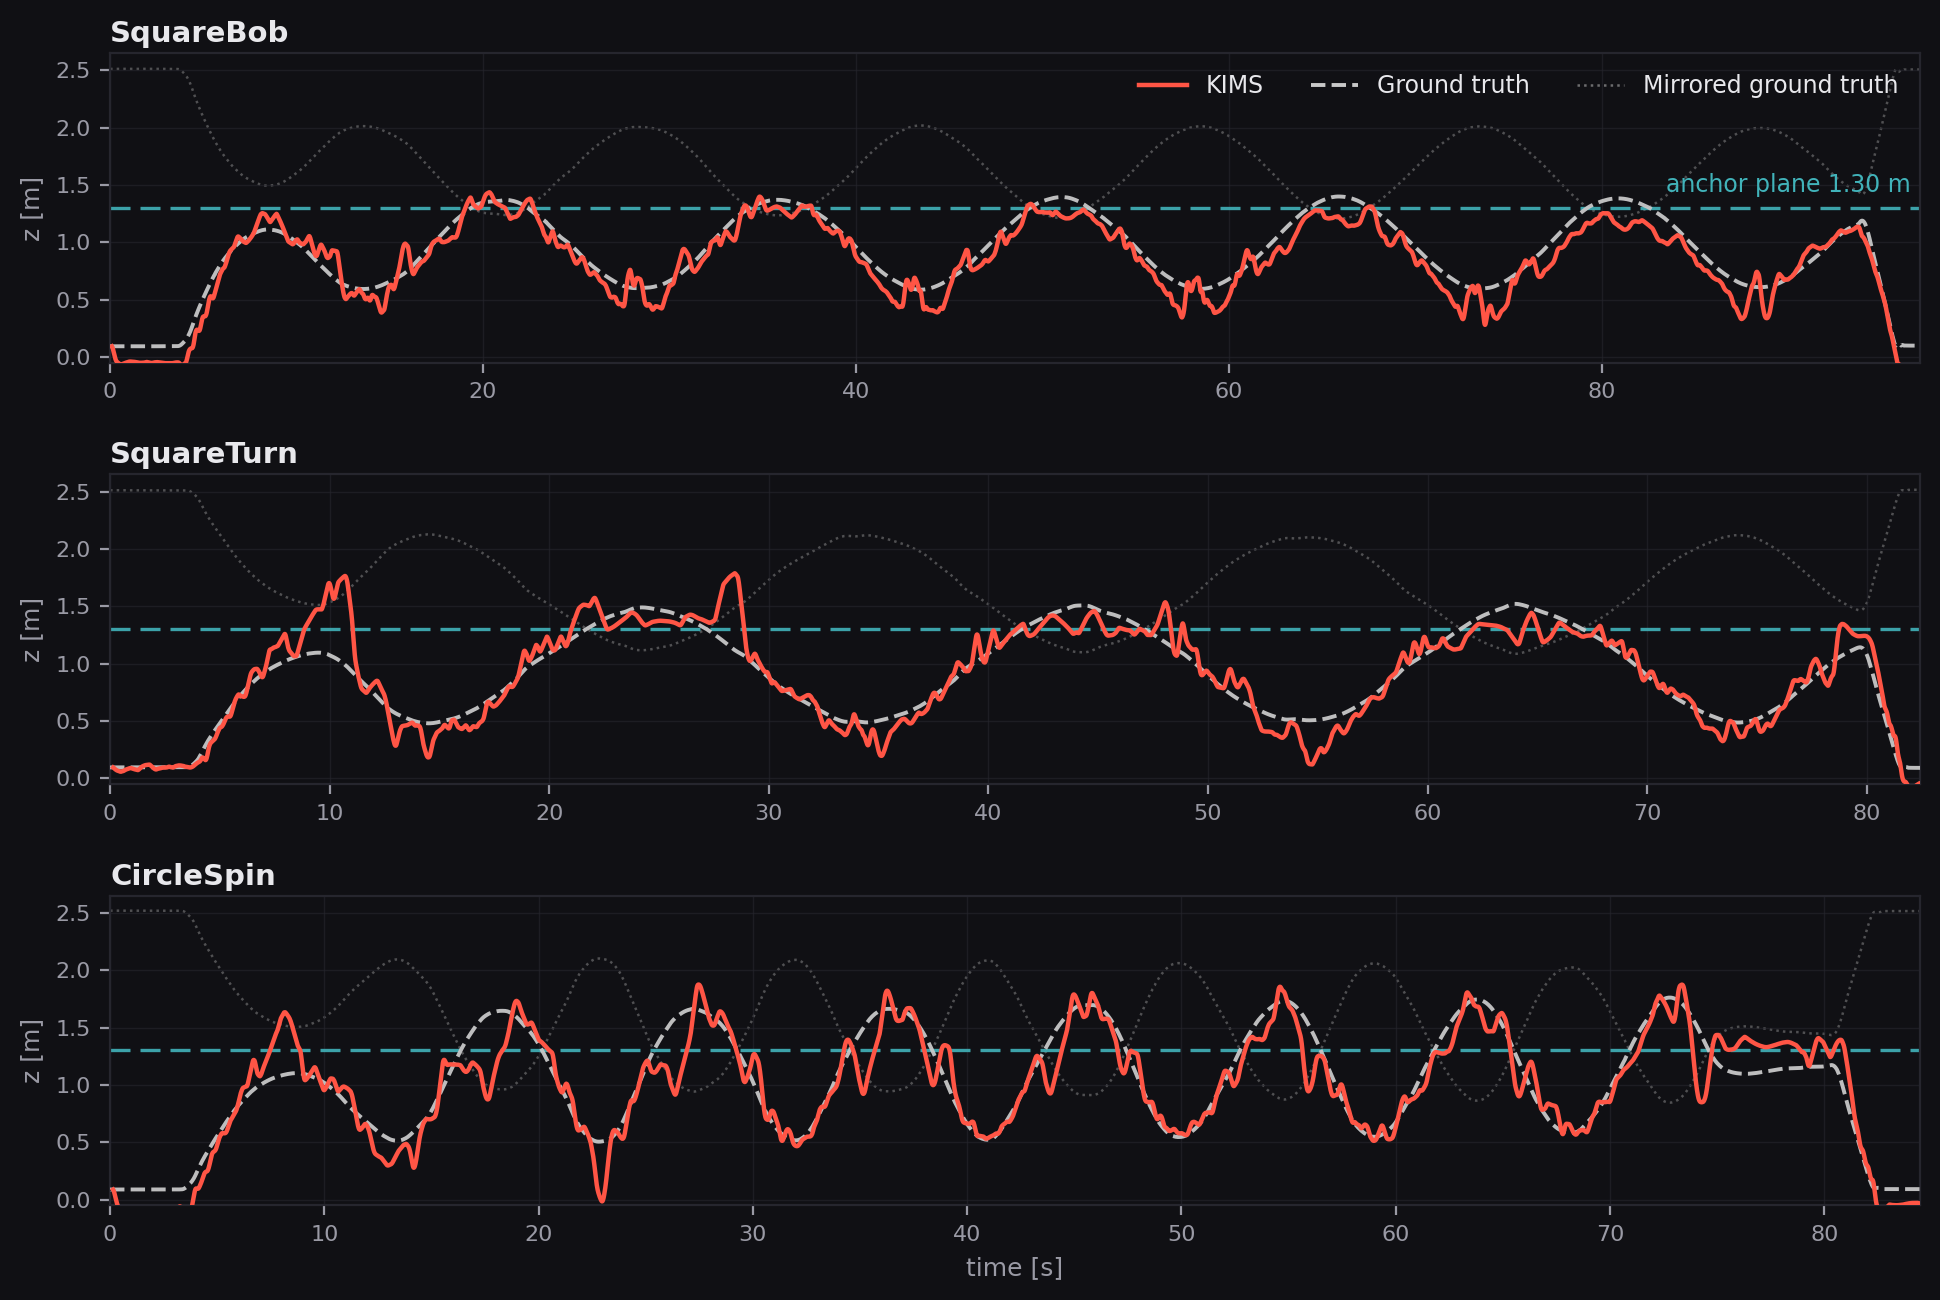
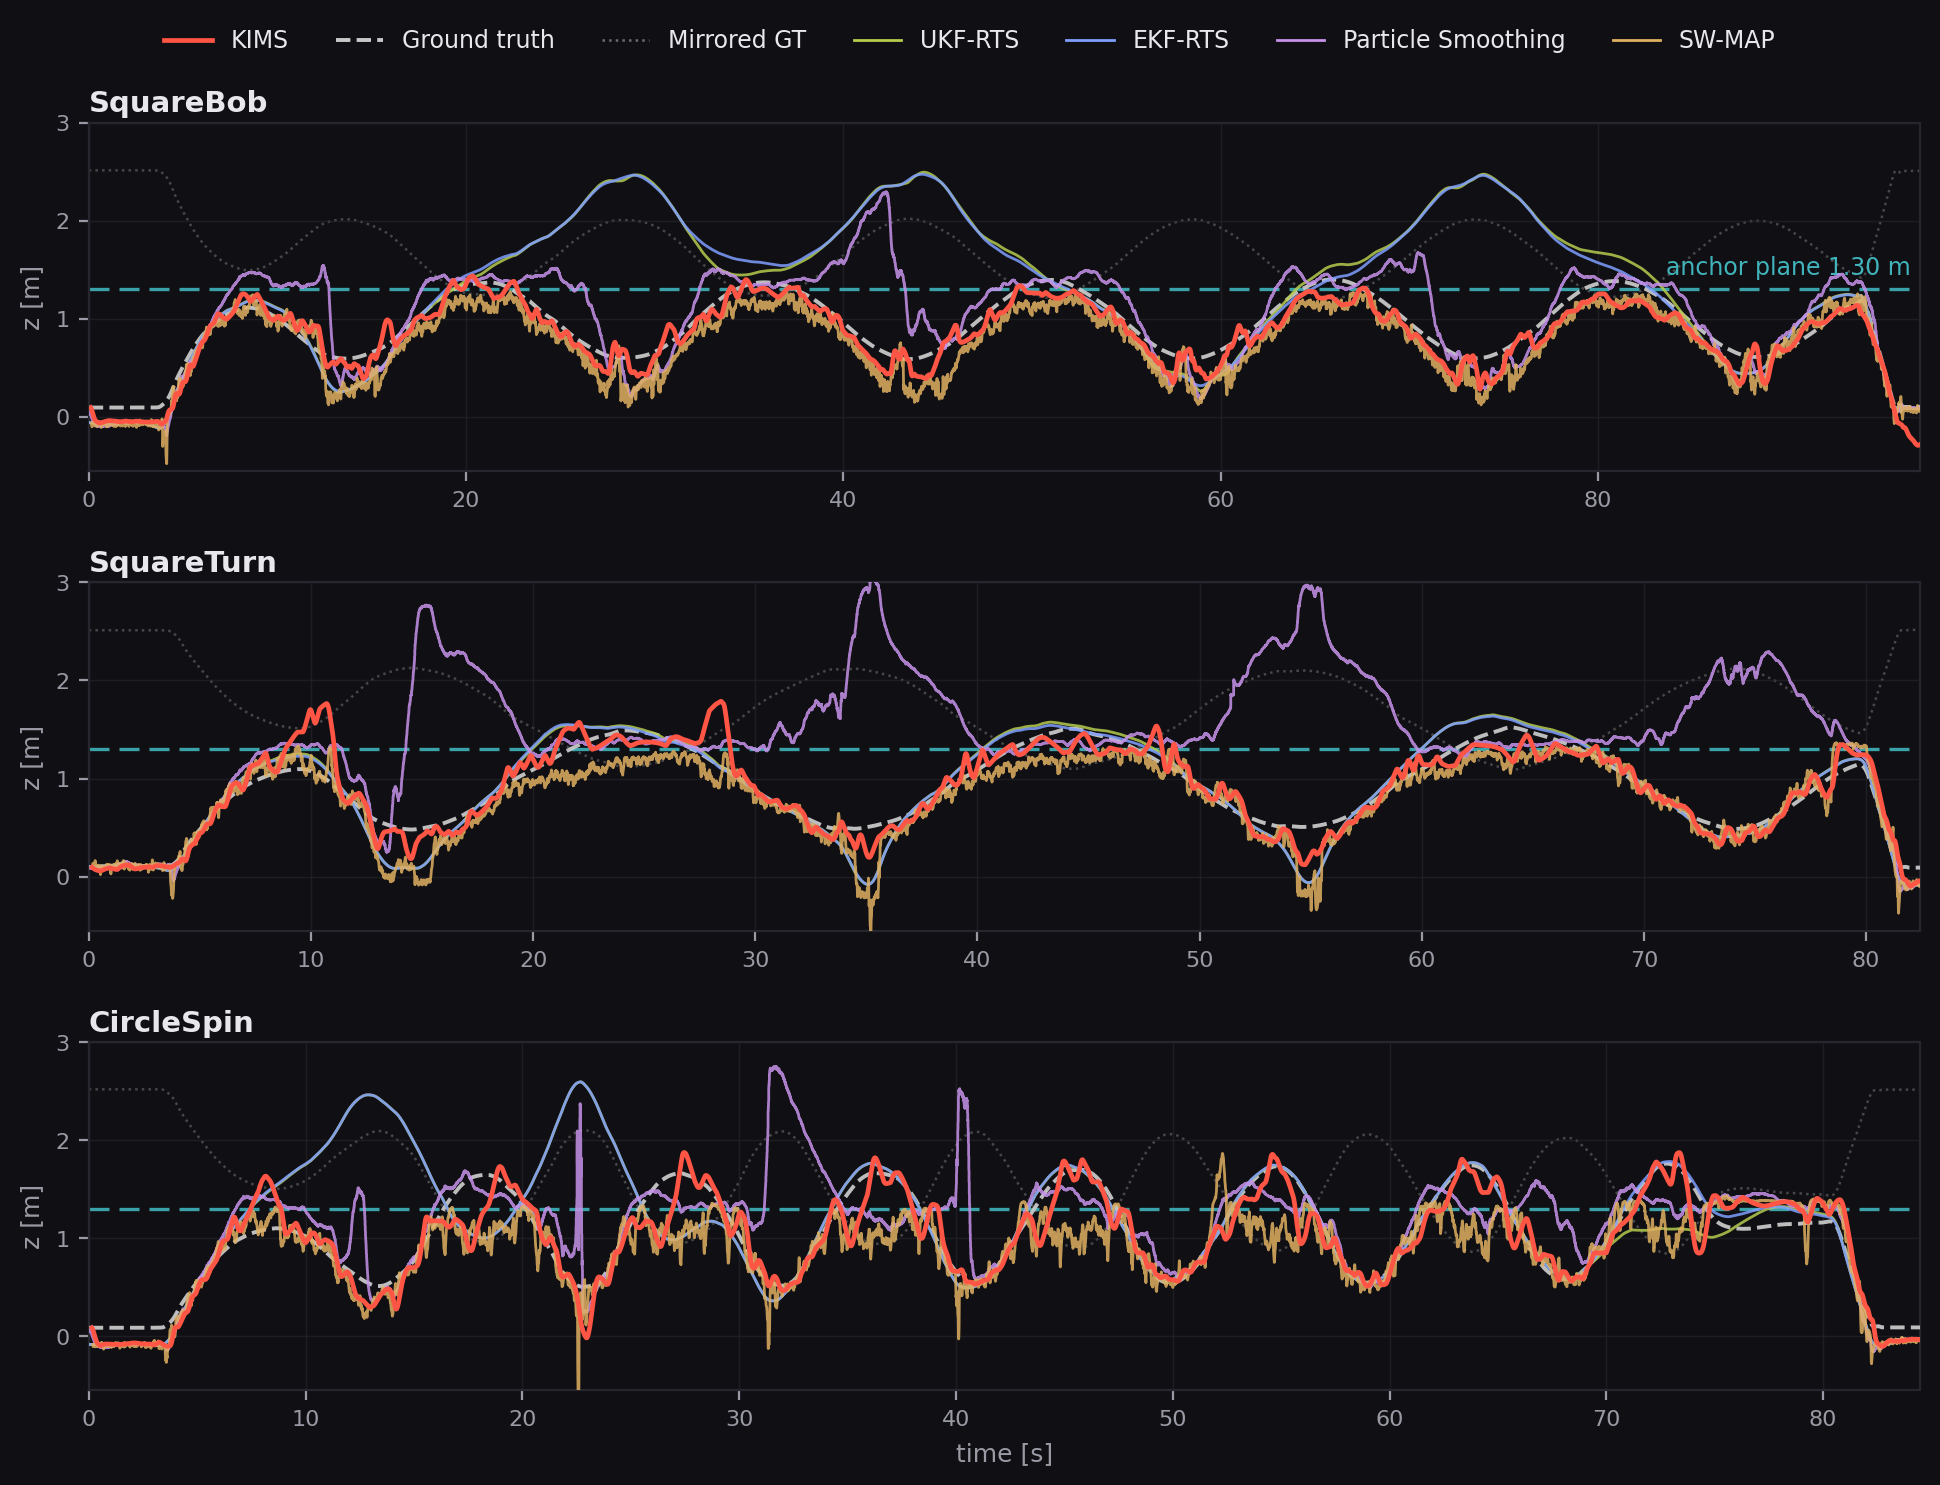
docs: altitude figure now compares all methods against the mirrored branch

diff --git a/docs/index.html b/docs/index.html
@@ -237,11 +237,13 @@
      the onboard IMU runs at ~50 Hz (20 ms), and Qualisys ground truth at 70 Hz. The UWB epoch
      rate being higher than the IMU rate is intentional in this campaign — IMU samples are
      interpolated to UWB timestamps by the estimator.</p>
-  <img src="assets/fig_z_crossings.png" alt="Altitude versus time on the three IULUI sequences"
+  <img src="assets/fig_z_crossings.png"
+       alt="Altitude versus time for all methods on the three IULUI sequences"
        style="width:100%;border-radius:12px;margin-top:14px">
   <p class="cap">Altitude over each flight. Every sequence repeatedly crosses the anchor plane
-     (teal), where the true and mirrored solutions meet — KIMS (red) stays on the true branch
-     throughout, never switching onto the mirrored ground truth (faint dotted).</p>
+     (teal), where the true and mirrored solutions meet. Each baseline jumps onto the mirrored
+     branch (faint dotted) on at least one sequence, while KIMS (red) tracks the true branch
+     aside from sub-second transients near crossings.</p>
 </section>
 
 <section class="wrap">
